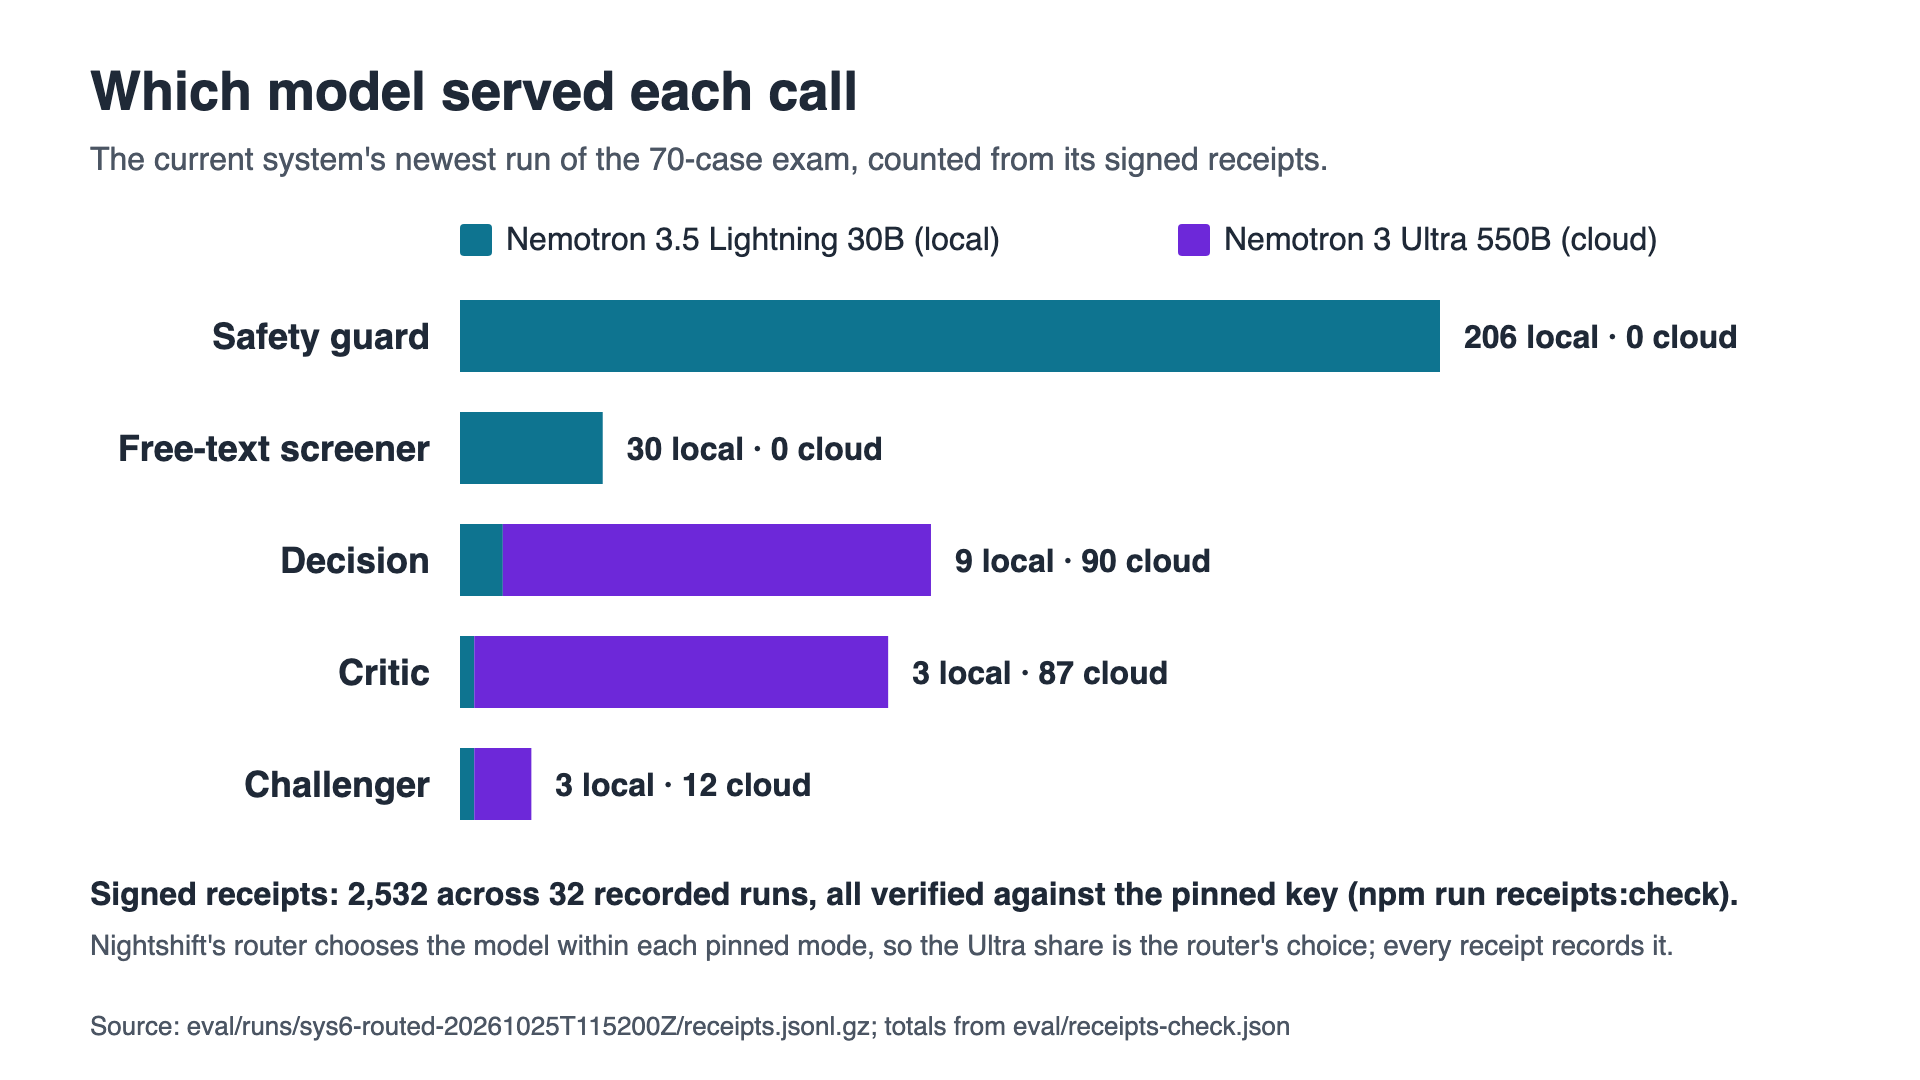
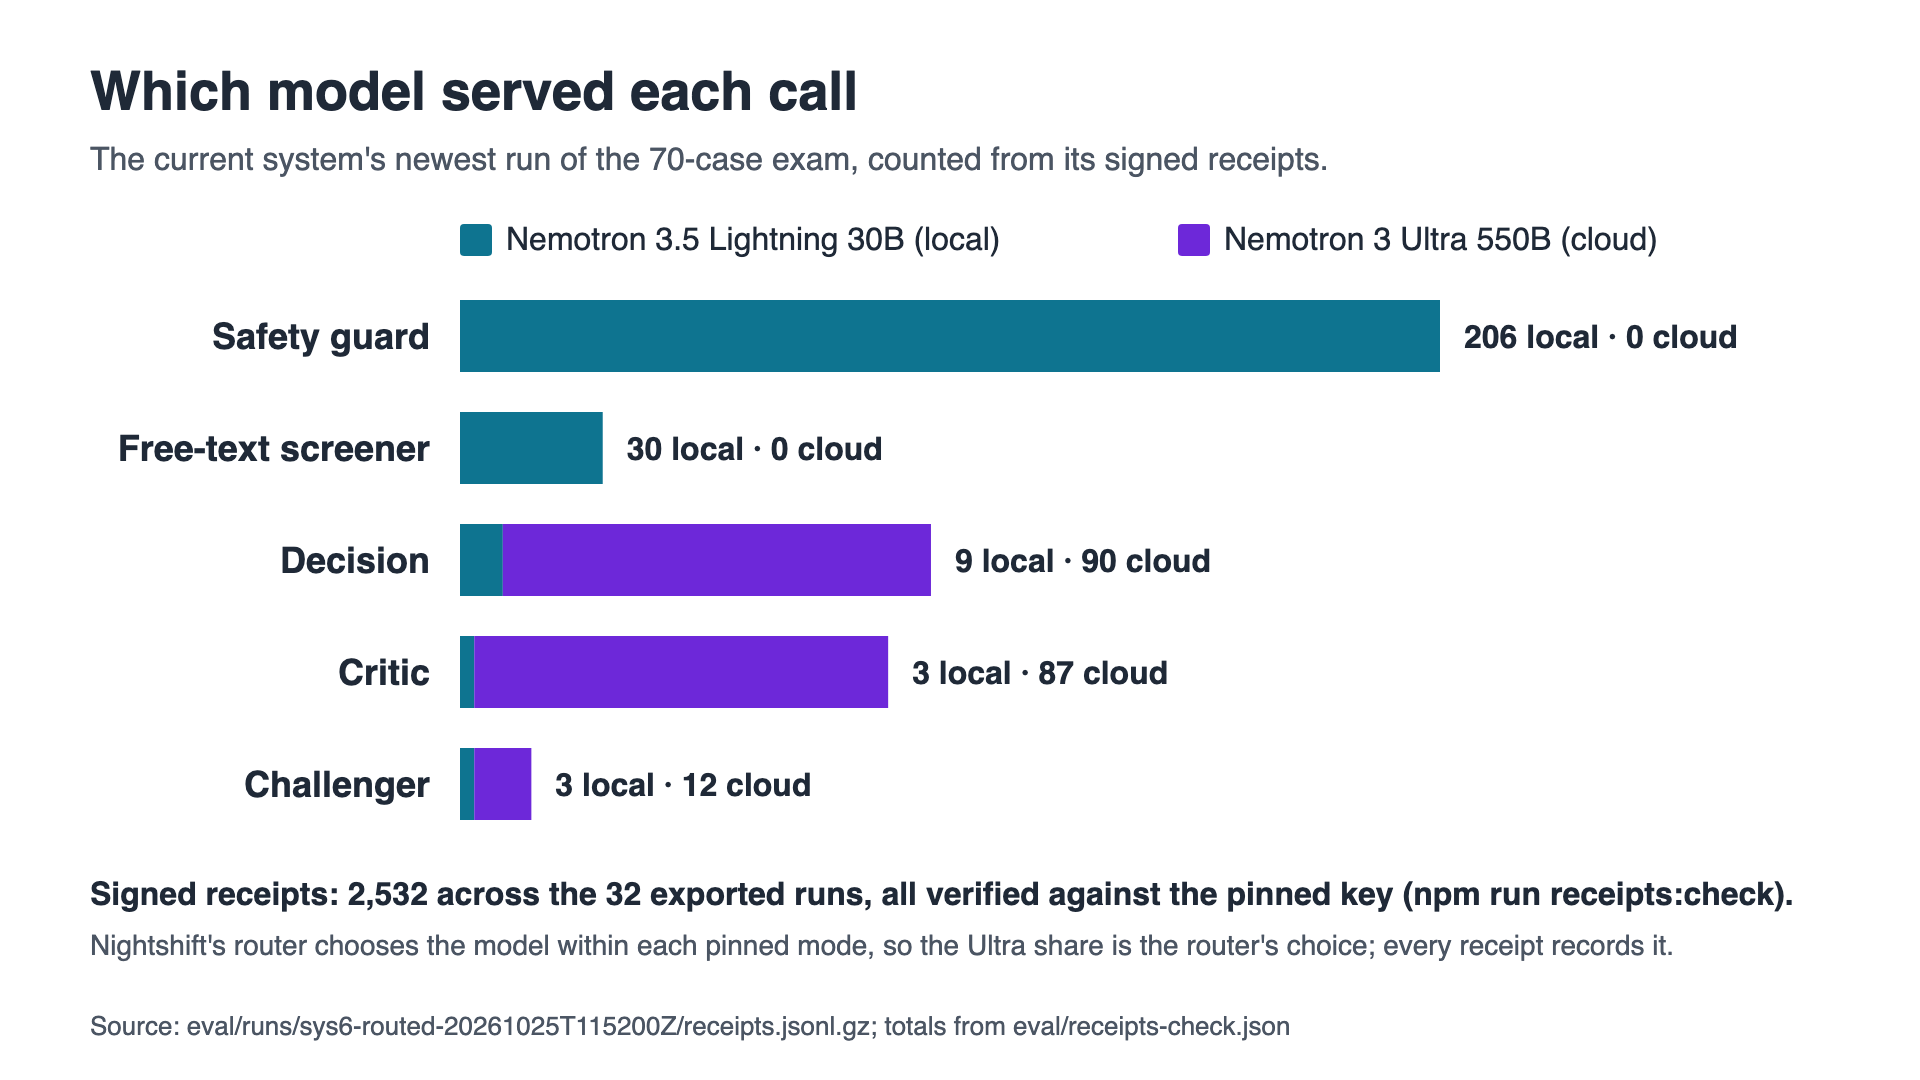
Charts and diagrams: the model-calls footer counts the 2,532 receipts across the 32 exported runs (the README's term; 'recorded' is kept for the 28 evaluation runs); the review-sequence diagram spaces its actors so no message label crosses a lifeline or sits under its sequence number

Changed region(s): [[0.2812, 0.7944, 0.9375, 0.8556]]

diff --git a/tools/charts.ts b/tools/charts.ts
@@ -359,7 +359,7 @@ const firstRecs = FIRST_RUNS.map(([run, label]) => {
   body += text(
     90,
     905,
-    `Signed receipts: ${g.receipts.toLocaleString("en-US")} across ${g.folders} recorded runs, all verified against the pinned key (npm run receipts:check).`,
+    `Signed receipts: ${g.receipts.toLocaleString("en-US")} across the ${g.folders} exported runs, all verified against the pinned key (npm run receipts:check).`,
     32,
     { weight: 600 },
   );
